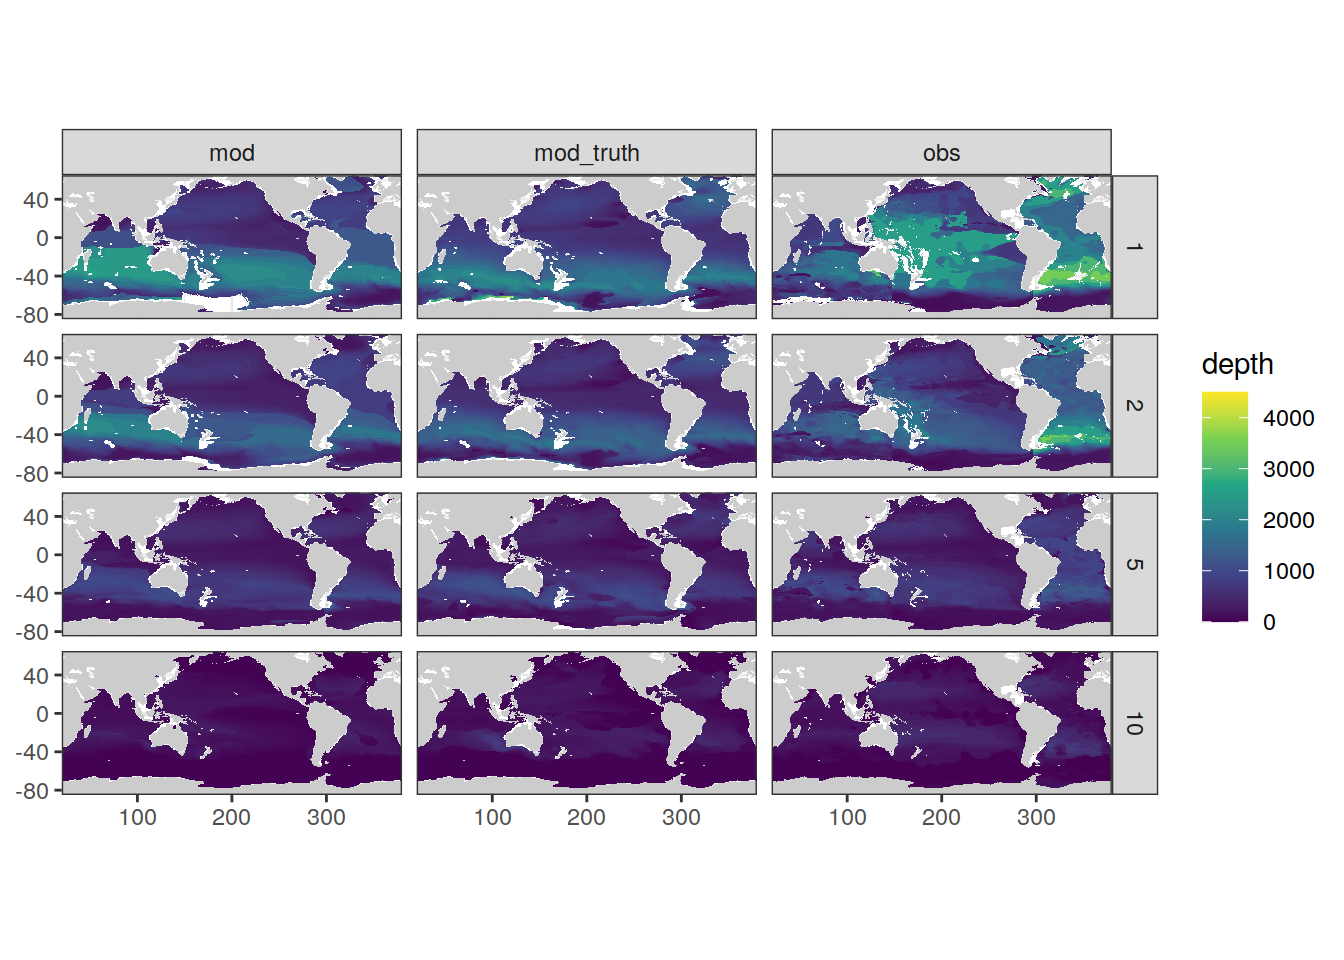
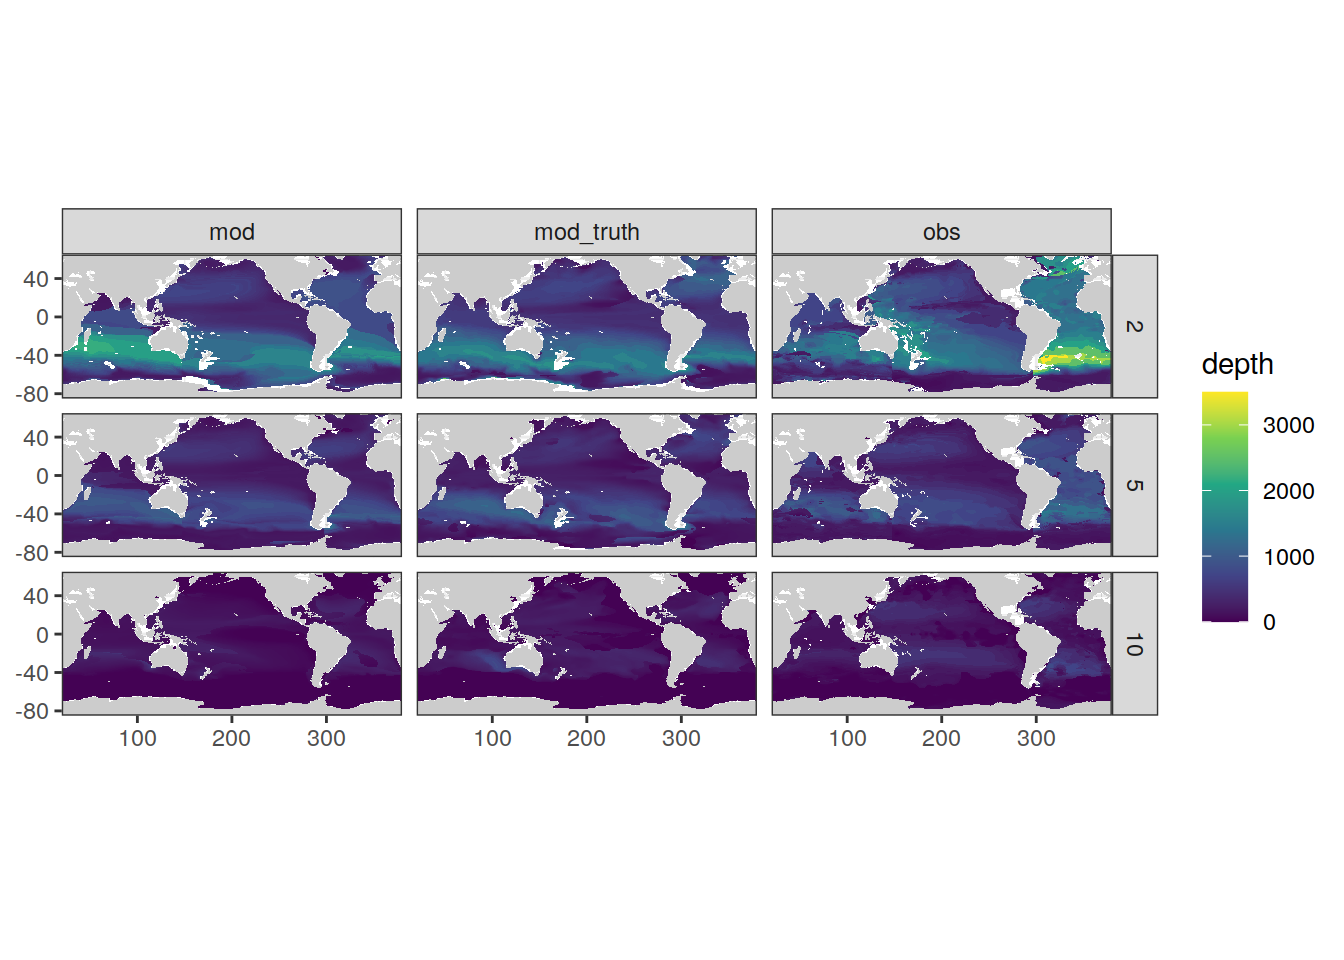
Build site.

diff --git a/docs/analysis_slab_inventory.html b/docs/analysis_slab_inventory.html
@@ -575,16 +575,16 @@ This reproducible <a href="https://rmarkdown.rstudio.com">R Markdown</a> analysi
 <div class="panel panel-default">
 <div class="panel-heading">
 <p class="panel-title">
-<a data-toggle="collapse" data-parent="#workflowr-checks" href="#strongRepositoryversionstrongahrefhttpsgithubcomjensdanielmuelleremlrobsvXXXtree95fe45b1c025776c7ecfb7503b208399e873b2f7targetblank95fe45ba"> <span class="glyphicon glyphicon-ok text-success" aria-hidden="true"></span> <strong>Repository version:</strong> <a href="https://github.com/jens-daniel-mueller/emlr_obs_v_XXX/tree/95fe45b1c025776c7ecfb7503b208399e873b2f7" target="_blank">95fe45b</a> </a>
+<a data-toggle="collapse" data-parent="#workflowr-checks" href="#strongRepositoryversionstrongahrefhttpsgithubcomjensdanielmuelleremlrobsvXXXtreeeba5c5761647102d32461ef8b2d6611112951fd6targetblankeba5c57a"> <span class="glyphicon glyphicon-ok text-success" aria-hidden="true"></span> <strong>Repository version:</strong> <a href="https://github.com/jens-daniel-mueller/emlr_obs_v_XXX/tree/eba5c5761647102d32461ef8b2d6611112951fd6" target="_blank">eba5c57</a> </a>
 </p>
 </div>
[2 lines of base64/hex data omitted]
 <div class="panel-body">
 <p>
 Great! You are using Git for version control. Tracking code development and connecting the code version to the results is critical for reproducibility.
 </p>
 <p>
-The results in this page were generated with repository version <a href="https://github.com/jens-daniel-mueller/emlr_obs_v_XXX/tree/95fe45b1c025776c7ecfb7503b208399e873b2f7" target="_blank">95fe45b</a>. See the <em>Past versions</em> tab to see a history of the changes made to the R Markdown and HTML files.
+The results in this page were generated with repository version <a href="https://github.com/jens-daniel-mueller/emlr_obs_v_XXX/tree/eba5c5761647102d32461ef8b2d6611112951fd6" target="_blank">eba5c57</a>. See the <em>Past versions</em> tab to see a history of the changes made to the R Markdown and HTML files.
 </p>
 <p>
 Note that you need to be careful to ensure that all relevant files for the analysis have been committed to Git prior to generating the results (you can use <code>wflow_publish</code> or <code>wflow_git_commit</code>). workflowr only checks the R Markdown file, but you know if there are other scripts or data files that it depends on. Below is the status of the Git repository when the results were generated:
@@ -631,6 +631,40 @@ Message
 </tr>
 </thead>
 <tbody>
+<tr>
+<td>
+Rmd
+</td>
+<td>
+<a href="https://github.com/jens-daniel-mueller/emlr_obs_v_XXX/blob/eba5c5761647102d32461ef8b2d6611112951fd6/analysis/analysis_slab_inventory.Rmd" target="_blank">eba5c57</a>
+</td>
+<td>
+jens-daniel-mueller
+</td>
+<td>
+2022-03-24
+</td>
+<td>
+added cant penetration depth analysis
+</td>
+</tr>
+<tr>
+<td>
+html
+</td>
+<td>
+<a href="https://rawcdn.githack.com/jens-daniel-mueller/emlr_obs_v_XXX/a41334e11110165427a8a9fa3a8f563c45710e34/docs/analysis_slab_inventory.html" target="_blank">a41334e</a>
+</td>
+<td>
+jens-daniel-mueller
+</td>
+<td>
+2022-03-24
+</td>
+<td>
+Build site.
+</td>
+</tr>
 <tr>
 <td>
 Rmd
@@ -4350,7 +4384,7 @@ dcant_slab &lt;- dcant_slab %&gt;%
 </div>
 <div id="dcant-penetration-depth" class="section level1" number="3">
 <h1><span class="header-section-number">3</span> dcant penetration depth</h1>
-<pre class="r"><code>for (i_dcant_lim in c(1,2,5,10)) {
+<pre class="r"><code>for (i_dcant_lim in c(2,5,10)) {
 
 dcant_penetration_depth &lt;- dcant_3d %&gt;% 
   filter(dcant &lt; i_dcant_lim) %&gt;% 
@@ -4376,6 +4410,43 @@ map +
   facet_grid(dcant_lim ~ data_source) +
   scale_fill_viridis_c()</code></pre>
 <p><img src="figure/analysis_slab_inventory.Rmd/dcant_penetration_depth-1.png" width="672" style="display: block; margin: auto;" /></p>
+<p>
+<button type="button" class="btn btn-default btn-xs btn-workflowr btn-workflowr-fig" data-toggle="collapse" data-target="#fig-dcant_penetration_depth-1">
+Past versions of dcant_penetration_depth-1.png
+</button>
+</p>
+<div id="fig-dcant_penetration_depth-1" class="collapse">
+<div class="table-responsive">
+<table class="table table-condensed table-hover">
+<thead>
+<tr>
+<th>
+Version
+</th>
+<th>
+Author
+</th>
+<th>
+Date
+</th>
+</tr>
+</thead>
+<tbody>
+<tr>
+<td>
+<a href="https://github.com/jens-daniel-mueller/emlr_obs_v_XXX/blob/a41334e11110165427a8a9fa3a8f563c45710e34/docs/figure/analysis_slab_inventory.Rmd/dcant_penetration_depth-1.png" target="_blank">a41334e</a>
+</td>
+<td>
+jens-daniel-mueller
+</td>
+<td>
+2022-03-24
+</td>
+</tr>
+</tbody>
+</table>
+</div>
+</div>
 <pre class="r"><code>dcant_penetration_depth_offset &lt;- dcant_penetration_depth_all %&gt;% 
   pivot_wider(names_from = data_source,
               values_from = depth) %&gt;% 
@@ -4390,8 +4461,52 @@ map +
   geom_tile(data = dcant_penetration_depth_offset,
             aes(lon, lat, fill = depth_offset)) +
   facet_grid(dcant_lim ~ data_source) +
-  scale_fill_divergent()</code></pre>
+  scale_fill_continuous_divergingx(palette = &quot;RdBu&quot;)</code></pre>
 <p><img src="figure/analysis_slab_inventory.Rmd/dcant_penetration_depth-2.png" width="672" style="display: block; margin: auto;" /></p>
+<p>
+<button type="button" class="btn btn-default btn-xs btn-workflowr btn-workflowr-fig" data-toggle="collapse" data-target="#fig-dcant_penetration_depth-2">
+Past versions of dcant_penetration_depth-2.png
+</button>
+</p>
+<div id="fig-dcant_penetration_depth-2" class="collapse">
+<div class="table-responsive">
+<table class="table table-condensed table-hover">
+<thead>
+<tr>
+<th>
+Version
+</th>
+<th>
+Author
+</th>
+<th>
+Date
+</th>
+</tr>
+</thead>
+<tbody>
+<tr>
+<td>
+<a href="https://github.com/jens-daniel-mueller/emlr_obs_v_XXX/blob/a41334e11110165427a8a9fa3a8f563c45710e34/docs/figure/analysis_slab_inventory.Rmd/dcant_penetration_depth-2.png" target="_blank">a41334e</a>
+</td>
+<td>
+jens-daniel-mueller
+</td>
+<td>
+2022-03-24
+</td>
+</tr>
+</tbody>
+</table>
+</div>
+</div>
+<pre class="r"><code>map +
+  geom_tile(data = dcant_penetration_depth_offset %&gt;% 
+              mutate(depth_offset = cut(depth_offset, c(-Inf, -500, -100, -50, 0, 50, 100, 500, Inf))),
+            aes(lon, lat, fill = depth_offset)) +
+  facet_grid(dcant_lim ~ data_source) +
+  scale_fill_discrete_divergingx(palette = &quot;RdBu&quot;, drop = FALSE)</code></pre>
+<p><img src="figure/analysis_slab_inventory.Rmd/dcant_penetration_depth-3.png" width="672" style="display: block; margin: auto;" /></p>
 </div>
 <div id="dcant---positive" class="section level1" number="4">
 <h1><span class="header-section-number">4</span> dcant - positive</h1>
@@ -40683,35 +40798,35 @@ attached base packages:
 [1] stats     graphics  grDevices utils     datasets  methods   base     
 
 other attached packages:
- [1] gt_0.3.1         kableExtra_1.3.4 scales_1.1.1     marelac_2.1.10  
- [5] shape_1.4.6      ggforce_0.3.3    metR_0.11.0      scico_1.3.0     
- [9] patchwork_1.1.1  collapse_1.7.0   forcats_0.5.1    stringr_1.4.0   
-[13] dplyr_1.0.7      purrr_0.3.4      readr_2.1.1      tidyr_1.1.4     
-[17] tibble_3.1.6     ggplot2_3.3.5    tidyverse_1.3.1  workflowr_1.7.0 
+ [1] colorspace_2.0-2 gt_0.3.1         kableExtra_1.3.4 scales_1.1.1    
+ [5] marelac_2.1.10   shape_1.4.6      ggforce_0.3.3    metR_0.11.0     
+ [9] scico_1.3.0      patchwork_1.1.1  collapse_1.7.0   forcats_0.5.1   
+[13] stringr_1.4.0    dplyr_1.0.7      purrr_0.3.4      readr_2.1.1     
+[17] tidyr_1.1.4      tibble_3.1.6     ggplot2_3.3.5    tidyverse_1.3.1 
+[21] workflowr_1.7.0 
 
 loaded via a namespace (and not attached):
  [1] fs_1.5.2          bit64_4.0.5       lubridate_1.8.0   gsw_1.0-6        
  [5] webshot_0.5.2     httr_1.4.2        rprojroot_2.0.2   tools_4.1.2      
  [9] backports_1.4.1   bslib_0.3.1       utf8_1.2.2        R6_2.5.1         
-[13] DBI_1.1.2         colorspace_2.0-2  withr_2.4.3       tidyselect_1.1.1 
-[17] processx_3.5.2    bit_4.0.4         compiler_4.1.2    git2r_0.29.0     
-[21] cli_3.1.1         rvest_1.0.2       xml2_1.3.3        labeling_0.4.2   
-[25] sass_0.4.0        checkmate_2.0.0   SolveSAPHE_2.1.0  callr_3.7.0      
-[29] systemfonts_1.0.3 digest_0.6.29     svglite_2.0.0     rmarkdown_2.11   
-[33] oce_1.5-0         pkgconfig_2.0.3   htmltools_0.5.2   highr_0.9        
-[37] dbplyr_2.1.1      fastmap_1.1.0     rlang_0.4.12      readxl_1.3.1     
-[41] rstudioapi_0.13   jquerylib_0.1.4   generics_0.1.1    farver_2.1.0     
-[45] jsonlite_1.7.3    vroom_1.5.7       magrittr_2.0.1    Rcpp_1.0.8       
-[49] munsell_0.5.0     fansi_1.0.2       lifecycle_1.0.1   stringi_1.7.6    
-[53] whisker_0.4       yaml_2.2.1        MASS_7.3-55       grid_4.1.2       
-[57] parallel_4.1.2    promises_1.2.0.1  crayon_1.4.2      haven_2.4.3      
-[61] hms_1.1.1         seacarb_3.3.0     knitr_1.37        ps_1.6.0         
-[65] pillar_1.6.4      reprex_2.0.1      glue_1.6.0        evaluate_0.14    
-[69] getPass_0.2-2     data.table_1.14.2 modelr_0.1.8      vctrs_0.3.8      
-[73] tzdb_0.2.0        tweenr_1.0.2      httpuv_1.6.5      cellranger_1.1.0 
-[77] gtable_0.3.0      polyclip_1.10-0   assertthat_0.2.1  xfun_0.29        
-[81] broom_0.7.11      later_1.3.0       viridisLite_0.4.0 ellipsis_0.3.2   
-[85] here_1.0.1       </code></pre>
+[13] DBI_1.1.2         withr_2.4.3       tidyselect_1.1.1  processx_3.5.2   
+[17] bit_4.0.4         compiler_4.1.2    git2r_0.29.0      cli_3.1.1        
+[21] rvest_1.0.2       xml2_1.3.3        labeling_0.4.2    sass_0.4.0       
+[25] checkmate_2.0.0   SolveSAPHE_2.1.0  callr_3.7.0       systemfonts_1.0.3
+[29] digest_0.6.29     svglite_2.0.0     rmarkdown_2.11    oce_1.5-0        
+[33] pkgconfig_2.0.3   htmltools_0.5.2   highr_0.9         dbplyr_2.1.1     
+[37] fastmap_1.1.0     rlang_0.4.12      readxl_1.3.1      rstudioapi_0.13  
+[41] jquerylib_0.1.4   generics_0.1.1    farver_2.1.0      jsonlite_1.7.3   
+[45] vroom_1.5.7       magrittr_2.0.1    Rcpp_1.0.8        munsell_0.5.0    
+[49] fansi_1.0.2       lifecycle_1.0.1   stringi_1.7.6     whisker_0.4      
+[53] yaml_2.2.1        MASS_7.3-55       grid_4.1.2        parallel_4.1.2   
+[57] promises_1.2.0.1  crayon_1.4.2      haven_2.4.3       hms_1.1.1        
+[61] seacarb_3.3.0     knitr_1.37        ps_1.6.0          pillar_1.6.4     
+[65] reprex_2.0.1      glue_1.6.0        evaluate_0.14     getPass_0.2-2    
+[69] data.table_1.14.2 modelr_0.1.8      vctrs_0.3.8       tzdb_0.2.0       
+[73] tweenr_1.0.2      httpuv_1.6.5      cellranger_1.1.0  gtable_0.3.0     
+[77] polyclip_1.10-0   assertthat_0.2.1  xfun_0.29         broom_0.7.11     
+[81] later_1.3.0       viridisLite_0.4.0 ellipsis_0.3.2    here_1.0.1       </code></pre>
 </div>
 </div>
 
